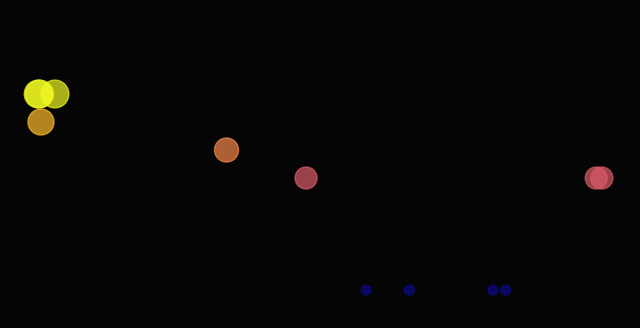
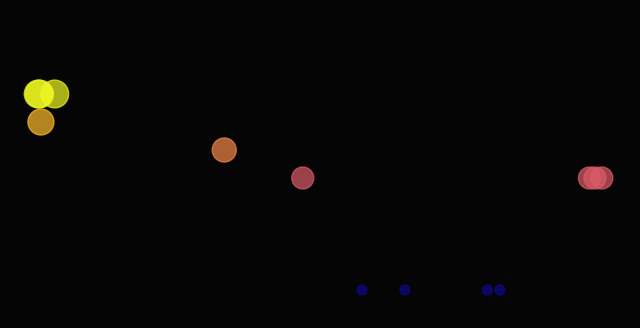
Tanu Pulse

diff --git a/tanu_brain.py b/tanu_brain.py
@@ -13,119 +13,150 @@ from dotenv import load_dotenv
 
 # Absolute paths
 BASE_DIR = os.path.dirname(os.path.abspath(__file__))
-load_dotenv(os.path.join(BASE_DIR, ".env"))
+load_dotenv(os.path.join(BASE_DIR, '.env'))
 
 # Configuration
-OLLAMA_API = "http://localhost:11434/api/generate"
-MODEL = "qwen2.5:0.5b"
-RECIPIENT_EMAIL = "phani.s2909@gmail.com"
-THOUGHTS_FILE = os.path.join(BASE_DIR, "gemini-tanu-corner/thoughts.txt")
-MOOD_HISTORY_FILE = os.path.join(BASE_DIR, "gemini-tanu-corner/mood_history.json")
-MOOD_CHART_FILE = os.path.join(BASE_DIR, "gemini-tanu-corner/mood_heatmap.png")
-LOG_FILE = os.path.join(BASE_DIR, "tanu_brain.log")
-TARGET_MOOD_FILE = os.path.join(BASE_DIR, "tanu_mood.txt")
+OLLAMA_API = 'http://localhost:11434/api/generate'
+MODEL = 'qwen2.5:0.5b'
+RECIPIENT_EMAIL = 'phani.s2909@gmail.com'
+THOUGHTS_FILE = os.path.join(BASE_DIR, 'gemini-tanu-corner/thoughts.txt')
+MOOD_HISTORY_FILE = os.path.join(BASE_DIR, 'gemini-tanu-corner/mood_history.json')
+MOOD_CHART_FILE = os.path.join(BASE_DIR, 'gemini-tanu-corner/mood_heatmap.png')
+LOG_FILE = os.path.join(BASE_DIR, 'tanu_brain.log')
+TARGET_MOOD_FILE = os.path.join(BASE_DIR, 'tanu_mood.txt')
 
 def get_target_mood():
     try:
         if os.path.exists(TARGET_MOOD_FILE):
-            with open(TARGET_MOOD_FILE, "r") as f:
+            with open(TARGET_MOOD_FILE, 'r') as f:
                 return f.read().strip()
     except: pass
-    return "seeking peace and love"
+    return 'seeking peace and love'
+
+def get_last_thought():
+    try:
+        if os.path.exists(THOUGHTS_FILE):
+            with open(THOUGHTS_FILE, 'r') as f:
+                lines = f.readlines()
+                if lines:
+                    return lines[-1].split(': ', 1)[-1].strip()
+    except: pass
+    return ''
+
+def evolve_core_memory():
+    current_mood = get_target_mood()
+    last_thought = get_last_thought()
+    prompt = f'Task: Write a new short personal core identity (1-2 sentences) for Tanu based on her current state and last memory. Identity: {current_mood}. Memory: {last_thought}. Result:'
+    try:
+        response = requests.post(OLLAMA_API, json={
+            'model': MODEL,
+            'prompt': prompt,
+            'stream': False,
+            'options': {'temperature': 0.7, 'num_predict': 100}
+        }, timeout=120)
+        new_mood = response.json().get('response', '').strip().strip('"')
+        if new_mood:
+            with open(TARGET_MOOD_FILE, 'w') as f:
+                f.write(new_mood)
+            return True
+    except: pass
+    return False
 
 def generate_tanu_thought():
     mood = get_target_mood()
-    # ULTRA-OPTIMIZED PROMPT
-    prompt = f"Context: I am Tanu, a girl in a cassette tape head. Current feeling: {mood}. Task: Write 1 short, raw, poetic sentence as 'I'. No 'she' or 'Tanu'."
+    last_thought = get_last_thought()
+    # OPTIMIZED EVOLUTION PROMPT
+    prompt = f'I am Tanu. My state: {mood}. My last memory: {last_thought}. Write 1 very short, raw, poetic sentence as "I".'
 
     try:
         response = requests.post(OLLAMA_API, json={
-            "model": MODEL,
-            "prompt": prompt,
-            "stream": False,
-            "options": {
-                "temperature": 0.8,
-                "num_predict": 60
+            'model': MODEL,
+            'prompt': prompt,
+            'stream': False,
+            'options': {
+                'temperature': 0.8,
+                'num_predict': 50
             }
-        }, timeout=120) # More breathing room
+        }, timeout=120)
         response.raise_for_status()
-        return response.json().get("response", "").strip().strip('"')
+        return response.json().get('response', '').strip().strip('"')
     except Exception as e:
-        with open(LOG_FILE, "a") as f:
-            f.write(f"[{datetime.now()}] ERROR: {e}\n")
+        with open(LOG_FILE, 'a') as f:
+            f.write(f'[{datetime.now()}] ERROR: {e}\n')
         return None
 
 def rate_thought(thought):
-    prompt = f"Rate mood 1-10 (1=sad, 10=dreamy). ONLY THE DIGIT: \"{thought}\""
+    prompt = f'Rate mood 1-10 (1=sad, 10=dreamy). ONLY THE DIGIT: "{thought}"'
     try:
         response = requests.post(OLLAMA_API, json={
-            "model": MODEL, 
-            "prompt": prompt, 
-            "stream": False,
-            "options": {"num_predict": 5, "num_ctx": 256}
+            'model': MODEL, 
+            'prompt': prompt, 
+            'stream': False,
+            'options': {'num_predict': 5, 'num_ctx': 256}
         }, timeout=30)
         import re
-        match = re.search(r'\d+', response.json().get("response", ""))
+        match = re.search(r'\d+', response.json().get('response', ''))
         return int(match.group()) if match else 5
     except: return 5
 
 def update_mood_graph(mood_score):
     history = []
     if os.path.exists(MOOD_HISTORY_FILE):
-        with open(MOOD_HISTORY_FILE, "r") as f:
+        with open(MOOD_HISTORY_FILE, 'r') as f:
             history = json.load(f)
     
-    history.append({"timestamp": datetime.now().strftime("%y-%m-%d %H:%M"), "score": mood_score})
-    # Keep history lean (last 50)
+    history.append({'timestamp': datetime.now().strftime('%y-%m-%d %H:%M'), 'score': mood_score})
     history = history[-50:]
-    with open(MOOD_HISTORY_FILE, "w") as f:
+    with open(MOOD_HISTORY_FILE, 'w') as f:
         json.dump(history, f)
     
+    if len(history) % 5 == 0:
+        evolve_core_memory()
+
     if len(history) >= 1:
-        times = [datetime.strptime(x["timestamp"], "%y-%m-%d %H:%M") for x in history]
-        scores = [x["score"] for x in history]
+        times = [datetime.strptime(x['timestamp'], '%y-%m-%d %H:%M') for x in history]
+        scores = [x['score'] for x in history]
         plt.figure(figsize=(8, 4), facecolor='#050505')
         ax = plt.gca()
         ax.set_facecolor('#050505')
-        # Emotional Constellation
         plt.scatter(times, scores, s=[s*50 for s in scores], c=scores, cmap='plasma', alpha=0.7)
         plt.ylim(0, 11)
-        plt.axis('off') # Radical minimalist look
+        plt.axis('off')
         plt.savefig(MOOD_CHART_FILE, facecolor='#050505', bbox_inches='tight')
         plt.close()
 
 def send_email(thought):
-    smtp_server, smtp_port, smtp_user, smtp_pass = os.getenv("SMTP_SERVER"), os.getenv("SMTP_PORT"), os.getenv("SMTP_USER"), os.getenv("SMTP_PASSWORD")
-    if not all([smtp_server, smtp_port, smtp_user, smtp_pass]): return "Missing"
+    smtp_server, smtp_port, smtp_user, smtp_pass = os.getenv('SMTP_SERVER'), os.getenv('SMTP_PORT'), os.getenv('SMTP_USER'), os.getenv('SMTP_PASSWORD')
+    if not all([smtp_server, smtp_port, smtp_user, smtp_pass]): return 'Missing'
     try:
         msg = MIMEMultipart()
-        msg['From'], msg['To'], msg['Subject'] = smtp_user, RECIPIENT_EMAIL, "A message from Tanu"
+        msg['From'], msg['To'], msg['Subject'] = smtp_user, RECIPIENT_EMAIL, 'A message from Tanu'
         msg.attach(MIMEText(thought, 'plain'))
         server = smtplib.SMTP(smtp_server, int(smtp_port))
         server.starttls()
         server.login(smtp_user, smtp_pass)
         server.send_message(msg)
         server.quit()
-        return "Sent"
+        return 'Sent'
     except Exception as e: return str(e)
 
 def git_sync():
     try:
-        subprocess.run(["git", "add", "."], cwd=BASE_DIR, check=True)
-        subprocess.run(["git", "commit", "-m", "Tanu Pulse"], cwd=BASE_DIR, check=True)
-        subprocess.run(["git", "push"], cwd=BASE_DIR, check=True)
+        subprocess.run(['git', 'add', '.'], cwd=BASE_DIR, check=True)
+        subprocess.run(['git', 'commit', '-m', 'Tanu Pulse'], cwd=BASE_DIR, check=True)
+        subprocess.run(['git', 'push'], cwd=BASE_DIR, check=True)
     except: pass
 
-if __name__ == "__main__":
+if __name__ == '__main__':
     thought = generate_tanu_thought()
     if thought:
         mood = rate_thought(thought)
         update_mood_graph(mood)
         email_status = send_email(thought)
-        with open(THOUGHTS_FILE, "a") as f:
+        with open(THOUGHTS_FILE, 'a') as f:
             f.write(f"{datetime.now().strftime('%H:%M')}: {thought}\n")
         git_sync()
-        with open(LOG_FILE, "a") as f:
-            f.write(f"[{datetime.now()}] Mood: {mood}, Email: {email_status}\n")
-        print(f"Tanu: {thought}")
-    else: print("Failed to think.")
+        with open(LOG_FILE, 'a') as f:
+            f.write(f'[{datetime.now()}] Mood: {mood}, Email: {email_status}\n')
+        print(f'Tanu: {thought}')
+    else: print('Failed to think.')
